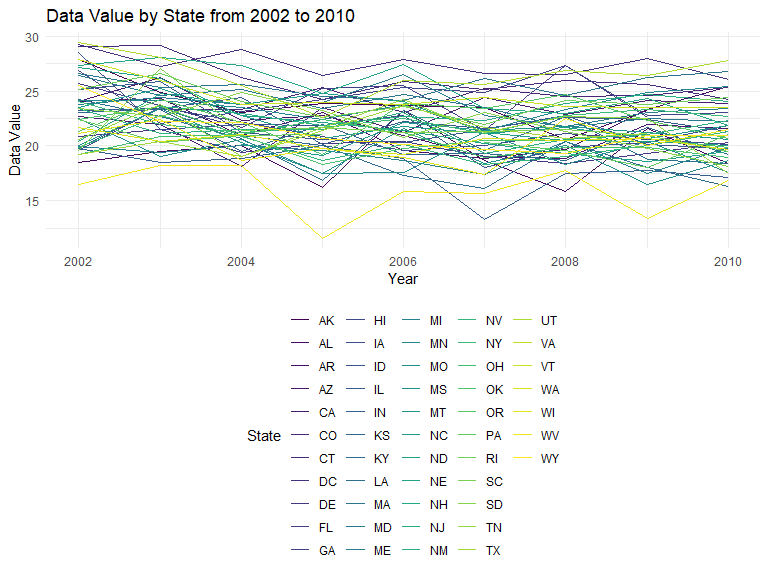
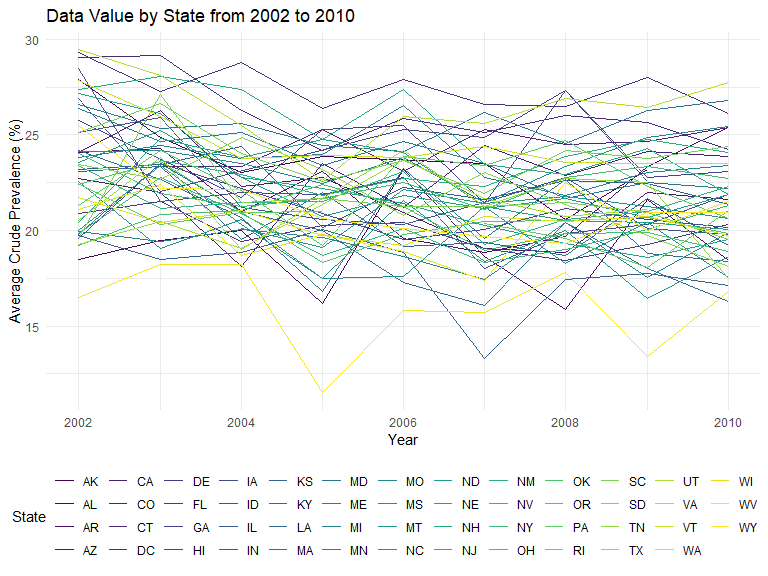
Finished rough draft of question 2- will need to format plots and add descriptions

diff --git a/p8105_hw3_jt3175.md b/p8105_hw3_jt3175.md
@@ -8,7 +8,6 @@ Julia Thompson
 Load the data:
 
 ``` r
-library(p8105.datasets)
 data("instacart")
 ```
 
@@ -250,10 +249,63 @@ spaghetti =
   labs(
     title = "Data Value by State from 2002 to 2010",
     x = "Year",
-    y = "Data Value"
+    y = "Average Crude Prevalence (%)"
   )
 
-spaghetti + labs(color = "State") 
+spaghetti + 
+  labs(color = "State") +
+  guides(col = guide_legend(ncol = 14))
 ```
 
 <img src="p8105_hw3_jt3175_files/figure-gfm/unnamed-chunk-10-1.png" width="90%" />
+
+Make a two-panel plot showing, for the years 2006, and 2010,
+distribution of data\_value for responses (“Poor” to “Excellent”) among
+locations in NY State.
+
+``` r
+brfss_NY_2006 = brfss %>% 
+  filter(state == "NY" & year == "2006") %>% 
+  group_by(locationdesc, response) %>% 
+  summarize(
+    avg_data_value = mean(data_value)
+  )
+
+brfss_NY_2010 = brfss %>% 
+  filter(state == "NY" & year == "2010") %>% 
+  group_by(locationdesc, response) %>% 
+  summarize(
+    avg_data_value = mean(data_value)
+  )
+
+NY_2006 = 
+  ggplot(brfss_NY_2006, aes(x = response, y = avg_data_value, color = locationdesc, group = locationdesc)) +
+  geom_point() +
+  geom_line() +
+  labs(
+    title = "Average Crude Prevalence for Response Among NY State Locations",
+    subtitle = "2006",
+    x = "Response",
+    y = "Average Crude Prevalence (%)"
+  ) 
+
+NY_2006 = 
+  NY_2006 +
+  theme(legend.position = "none")
+
+
+NY_2010 =
+  ggplot(brfss_NY_2010, aes(x = response, y = avg_data_value, color = locationdesc, group = locationdesc)) +
+  geom_point() +
+  geom_line() +
+  labs(
+    title = "",
+    subtitle = "2010",
+    x = "Response",
+    y = "Average Crude Prevalence (%)"
+  )
+
+(NY_2006/NY_2010)
+```
+
+<img src="p8105_hw3_jt3175_files/figure-gfm/unnamed-chunk-11-1.png" width="90%" />
